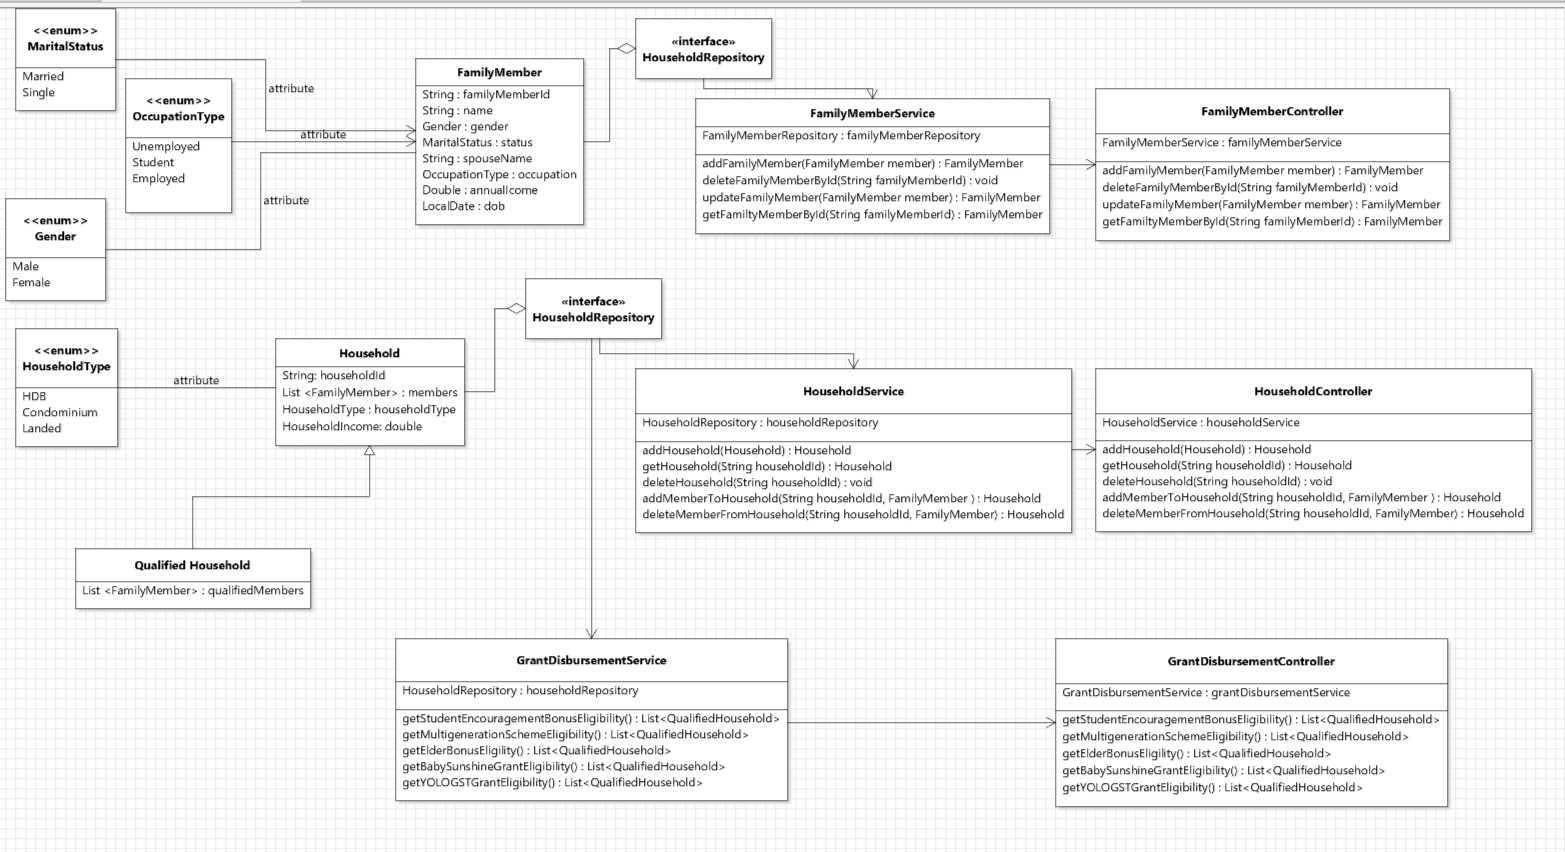
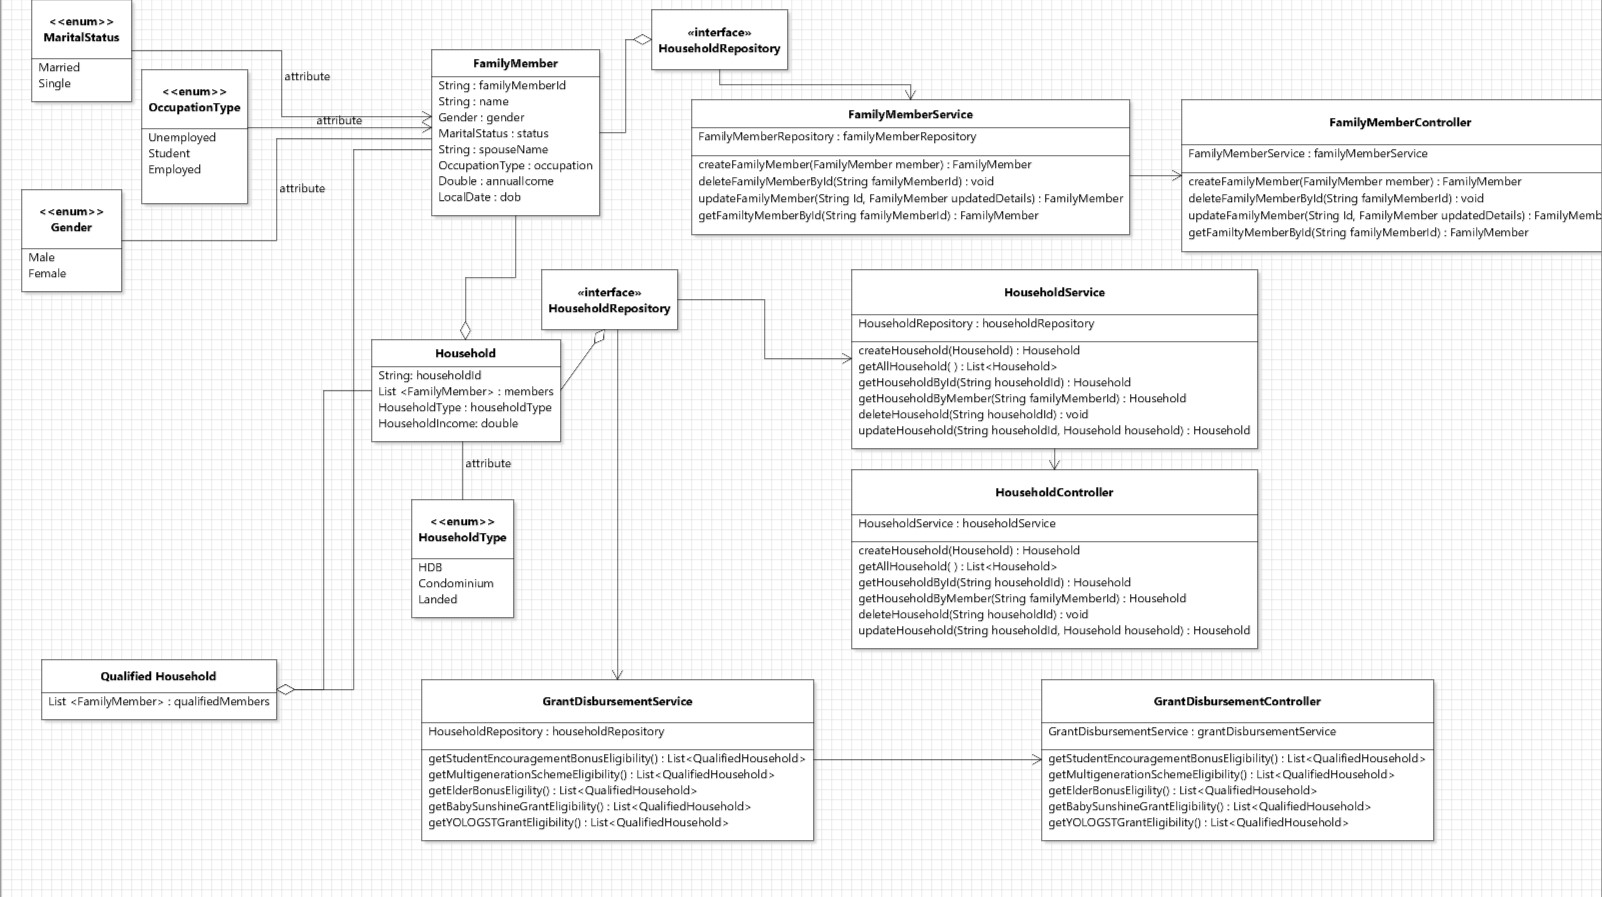
completed controller/service for hoursehold, updated uml diagram

diff --git a/src/main/java/com/meteortap/grantDisbursement/service/HouseholdService.java b/src/main/java/com/meteortap/grantDisbursement/service/HouseholdService.java
@@ -1,7 +1,63 @@
 package com.meteortap.grantDisbursement.service;
 
+import com.meteortap.grantDisbursement.document.FamilyMember;
+import com.meteortap.grantDisbursement.document.Household;
+import com.meteortap.grantDisbursement.exception.ResourceNotFoundException;
+import com.meteortap.grantDisbursement.repository.HouseholdRepository;
+import org.springframework.beans.factory.annotation.Autowired;
 import org.springframework.stereotype.Service;
+
+import java.util.List;
 
 @Service
 public class HouseholdService {
+
+    @Autowired
+    private HouseholdRepository householdRepository;
+
+    public List<Household> getAllHousehold() {
+        return householdRepository.findAll();
+    }
+
+    public Household getHouseholdById(String householdId) {
+        return householdRepository.findById(householdId)
+                .orElseThrow(()-> new ResourceNotFoundException("Household with id:"+householdId+" does not exist"));
+    }
+
+    //To improve time complexity/performance, an alternative approach can be to store houseHoldId in each familyMember
+    public Household getHouseholdByMember(String familyMemberId) throws ResourceNotFoundException{
+        List<Household> allHouseholds = householdRepository.findAll();
+
+        for (Household h: allHouseholds){
+            for (FamilyMember m: h.getMembers()){
+                if (m.equals(familyMemberId)){
+                    return h;
+                }
+            }
+        }
+        throw new ResourceNotFoundException("familyMemberId does not belong to any household");
+    }
+
+    public Household createHousehold(Household household) {
+        return householdRepository.save(household);
+    }
+
+    public void deleteHouseholdById(String householdId) {
+        householdRepository.deleteById(householdId);
+    }
+
+    public Household updateHousehold(String householdId, Household updatedDetails) {
+        Household household = householdRepository.findById(householdId)
+                .orElseThrow(()-> new ResourceNotFoundException("Household with id:"+householdId+" does not exist"));
+
+        household.setHouseholdType(updatedDetails.getHouseholdType());
+        household.setHouseholdIncome(updatedDetails.getHouseholdIncome());
+        household.setMembers(household.getMembers());
+
+        return household;
+
+    }
+
+
+
 }

diff --git a/src/main/java/com/meteortap/grantDisbursement/controller/HouseholdController.java b/src/main/java/com/meteortap/grantDisbursement/controller/HouseholdController.java
@@ -1,11 +1,52 @@
 package com.meteortap.grantDisbursement.controller;
 
 
-import org.springframework.web.bind.annotation.RequestMapping;
-import org.springframework.web.bind.annotation.RestController;
+import com.meteortap.grantDisbursement.document.Household;
+import com.meteortap.grantDisbursement.document.Household;
+import com.meteortap.grantDisbursement.service.HouseholdService;
+import org.springframework.beans.factory.annotation.Autowired;
+import org.springframework.web.bind.annotation.*;
+
+import java.util.List;
 
 @RestController
-@RequestMapping("/api/Controller")
+@RequestMapping("/api/Household")
 public class HouseholdController {
-    
+
+    @Autowired
+    private HouseholdService householdService;
+
+    @GetMapping("/getAll")
+    public List<Household> getAllHousehold() {
+        return householdService.getAllHousehold();
+    }
+
+    @GetMapping("/getById/{householdId}")
+    public Household getHouseholdById(@PathVariable String householdId) {
+        return householdService.getHouseholdById(householdId);
+    }
+
+    @GetMapping("/getByMember/{familyMemberId}")
+    public Household getHouseholdByMember(@PathVariable String familyMemberId){
+        return householdService.getHouseholdByMember(familyMemberId);
+    }
+
+    @PostMapping("/create")
+    public Household createHousehold(@RequestBody Household household){
+        return householdService.createHousehold(household);
+    }
+
+    @DeleteMapping("/delete/{householdId}")
+    public void deleteHouseholdById(@PathVariable String familyMemberId){
+        householdService.deleteHouseholdById(familyMemberId);
+    }
+
+    @PutMapping("update/{householdId}")
+    public Household updateHousehold(@PathVariable String householdId, @RequestBody Household updatedDetails){
+        return householdService.updateHousehold(householdId, updatedDetails);
+
+    }
+
+
+
 }

diff --git a/src/main/java/com/meteortap/grantDisbursement/service/FamilyMemberService.java b/src/main/java/com/meteortap/grantDisbursement/service/FamilyMemberService.java
@@ -3,6 +3,7 @@ package com.meteortap.grantDisbursement.service;
 
 
 import com.meteortap.grantDisbursement.document.FamilyMember;
+import com.meteortap.grantDisbursement.document.Household;
 import com.meteortap.grantDisbursement.exception.ResourceNotFoundException;
 import com.meteortap.grantDisbursement.repository.FamilyMemberRepository;
 import org.springframework.beans.factory.annotation.Autowired;
@@ -17,6 +18,8 @@ public class FamilyMemberService {
 
     @Autowired
     private FamilyMemberRepository familyMemberRepository;
+    @Autowired
+    private HouseholdService householdService;
 
     public List<FamilyMember> getAllFamilyMembers() {
         return familyMemberRepository.findAll();
@@ -38,6 +41,12 @@ public class FamilyMemberService {
     public FamilyMember updateFamilyMember(String familyMemberId, FamilyMember updatedDetails) {
         FamilyMember updateFamilyMember = familyMemberRepository.findById(familyMemberId)
                 .orElseThrow(()-> new ResourceNotFoundException("FamilyMember with id:"+familyMemberId+" does not exist"));
+
+        //If income has changed, update the household income
+        if (updatedDetails.getAnnualIncome()!=updateFamilyMember.getAnnualIncome()){
+            Household household = householdService.getHouseholdByMember(familyMemberId);
+            household.setHouseholdIncome(household.getHouseholdIncome()-updateFamilyMember.getAnnualIncome()+updatedDetails.getAnnualIncome());
+        }
 
         updateFamilyMember.setAnnualIncome(updatedDetails.getAnnualIncome());
         updateFamilyMember.setDob(updatedDetails.getDob());

diff --git a/src/main/java/com/meteortap/grantDisbursement/controller/FamilyMemberController.java b/src/main/java/com/meteortap/grantDisbursement/controller/FamilyMemberController.java
@@ -23,7 +23,7 @@ public class FamilyMemberController {
     }
 
     @GetMapping("/getById/{familyMemberId}")
-    public FamilyMember getFamilyMemberById(String familyMemberId){
+    public FamilyMember getFamilyMemberById(@PathVariable String familyMemberId){
         return familyMemberService.getFamilyMemberById(familyMemberId);
     }
 
@@ -33,12 +33,12 @@ public class FamilyMemberController {
     }
 
     @DeleteMapping("/delete/{familyMemberId}")
-    public void deleteFamilyMemberById(String familyMemberId){
+    public void deleteFamilyMemberById(@PathVariable String familyMemberId){
         familyMemberService.deleteFamilyMemberById(familyMemberId);
     }
 
     @PutMapping("update/{familyMemberId}")
-    public FamilyMember updateFamilyMember(String familyMemberId, FamilyMember updatedDetails){
+    public FamilyMember updateFamilyMember(@PathVariable String familyMemberId, @RequestBody FamilyMember updatedDetails){
         return familyMemberService.updateFamilyMember(familyMemberId, updatedDetails);
 
     }

diff --git a/src/main/java/com/meteortap/grantDisbursement/repository/HouseholdRepository.java b/src/main/java/com/meteortap/grantDisbursement/repository/HouseholdRepository.java
@@ -1,0 +1,7 @@
+package com.meteortap.grantDisbursement.repository;
+
+import com.meteortap.grantDisbursement.document.Household;
+import org.springframework.data.mongodb.repository.MongoRepository;
+
+public interface HouseholdRepository extends MongoRepository<Household, String> {
+}
